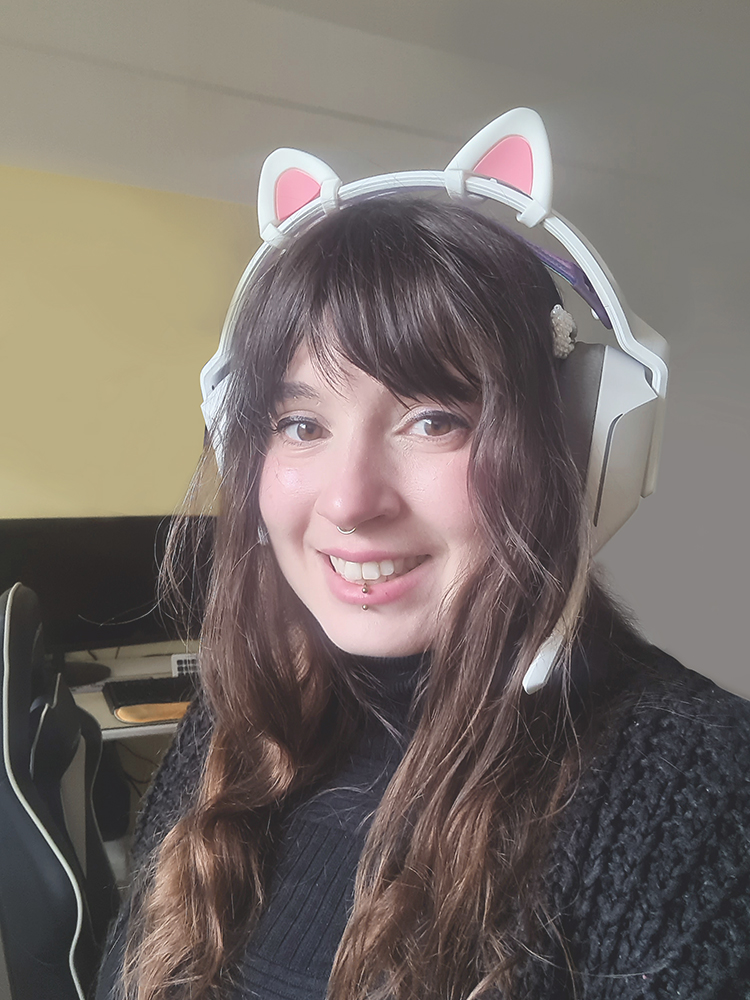
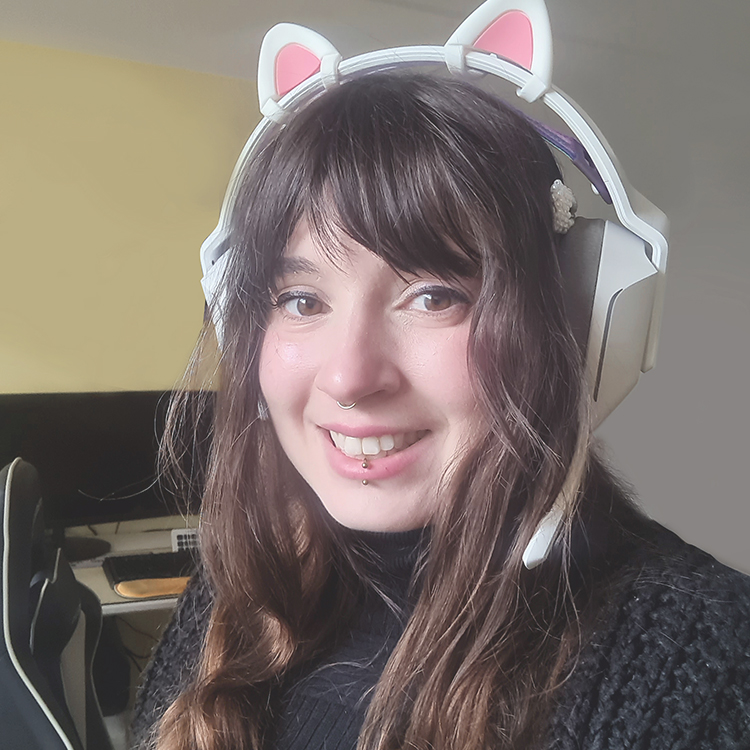
About WIP

diff --git a/index.html b/index.html
@@ -32,6 +32,13 @@
                     With a background in software engineering and visual design, I build almost every part of my games — from logic systems and pixel art to narrative and UI — infusing each world with warmth, intention, and a love for the strange and memorable.
                 </p>
                 <br>
+            </div>
+            <div class="boxinner2">
+                <img src="assets/images_about/LapysGames_Portrait.jpg" alt="Portrait">
+            </div>
+        </div>
+        <div class="box">
+            <div class="boxinner1">
                 <h1>WHAT I MAKE</h1>
                 <h2>and why</h2>
                 <hr>
@@ -46,21 +53,23 @@
                     <div class="boxinner1inner">
                         <b3>Writing & Narrative Development</b3>
                         Branching narratives, dialogue, tutorials
+                        <br>
                         <b3>Photography (Art & Commercial)</b3>
                         Coordinated looks, moody visuals
                     </div>            
                     <div class="boxinner1inner">
                         <b3>Game Design & Coding</b3>
                         Ren’Py, Pygame, object oriented, architecture design
+                        <br>
                         <b3>Visual Design & UI</b3>
                         Cohesive designs from buttons to layouts, CIs
+                        <br>
                         <b3>Illustration & Character Design</b3>
                         hand-drawn, pixel art, bespoke
                     </div>            
                 </div>
             </div>
             <div class="boxinner2">
-                <img src="assets/images_about/LapysGames_Portrait.jpg" alt="Portrait">
                 <img src="assets/images_about/Lapys_Moodboard.png" alt="Lapys Moodboard">
             </div>
         </div>

diff --git a/main.css b/main.css
@@ -207,6 +207,10 @@ hr {
     text-align: center;
   }
 
+  .boxinner1 {
+    padding: 10px;
+  }
+
   .boxinner1 img,
   .boxinner2 img {
     width: 100%;
